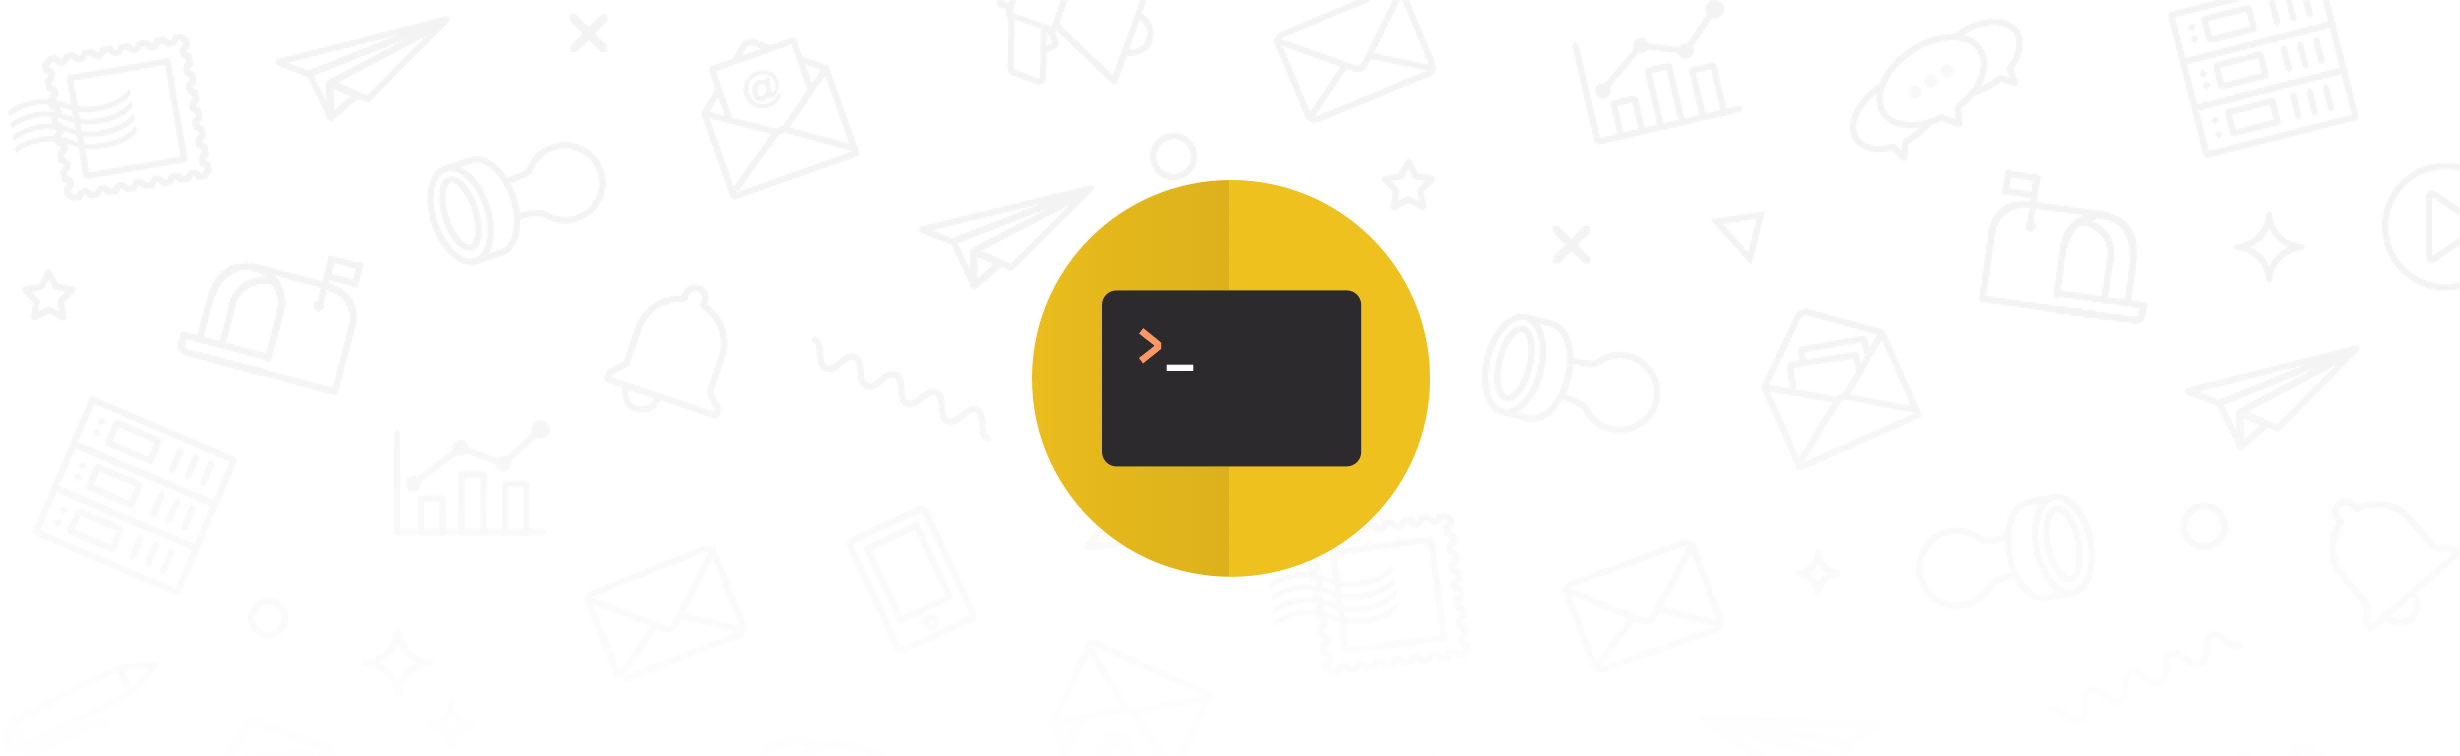
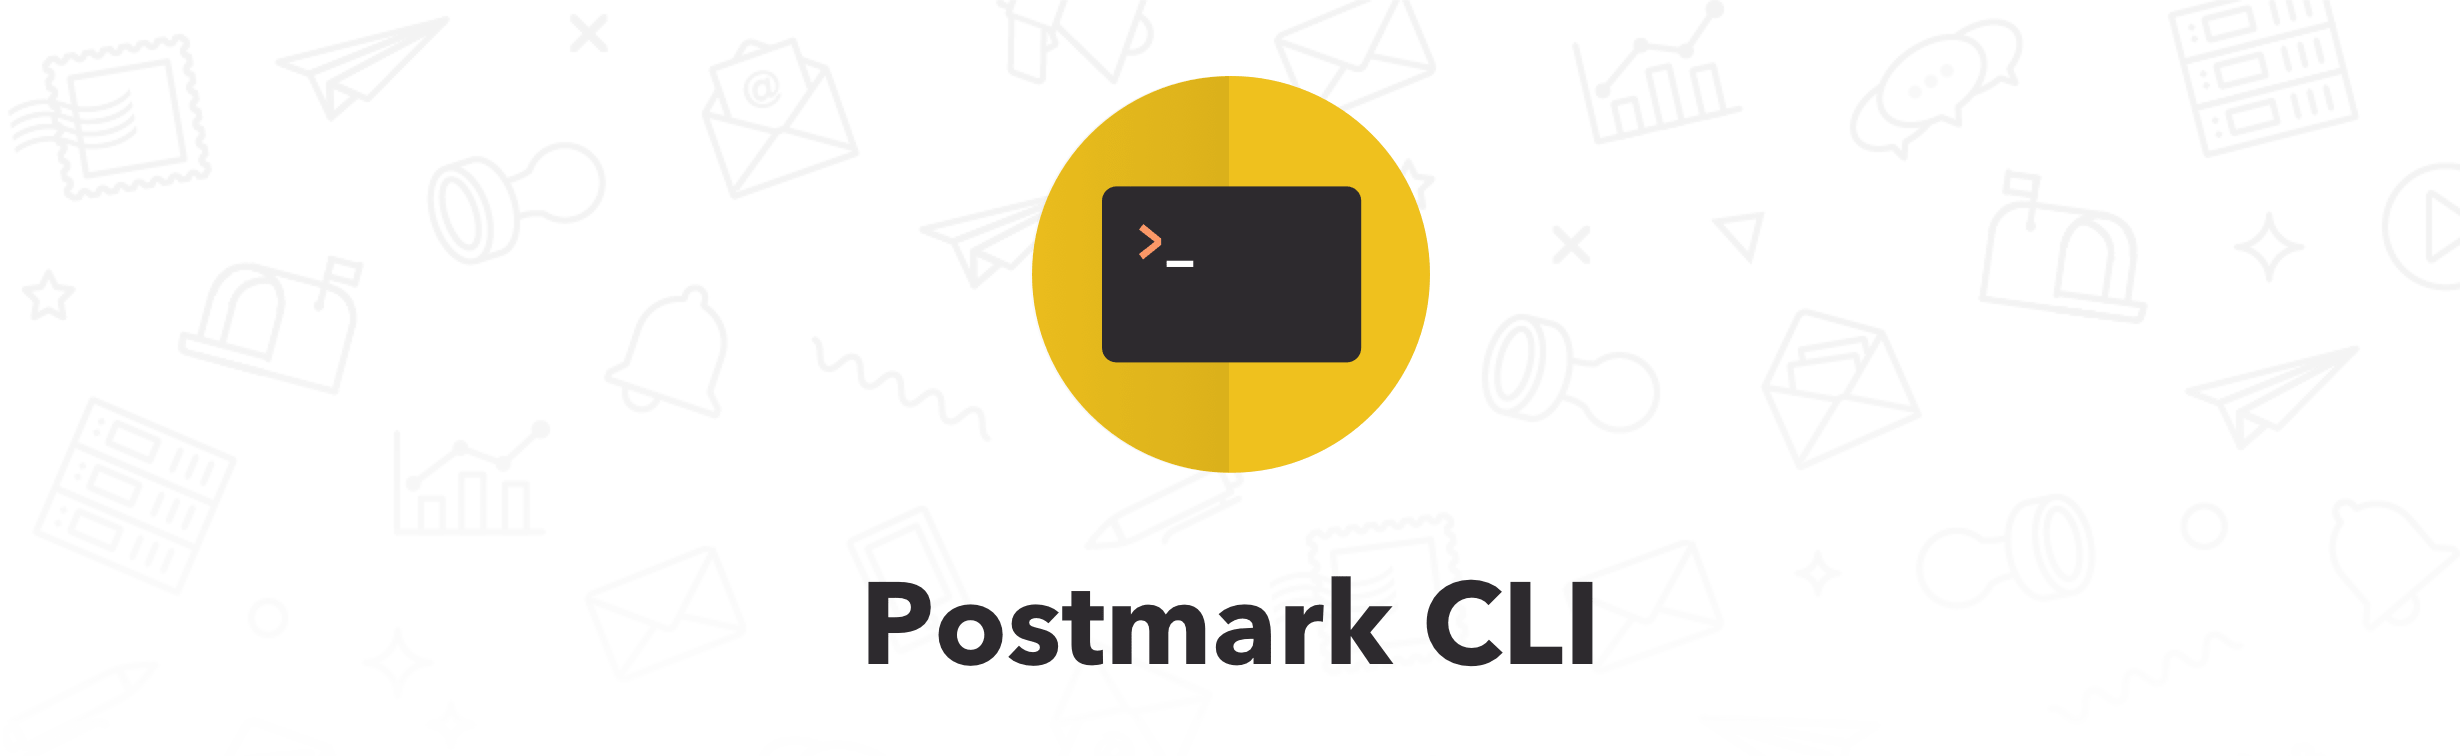
Update header image and readme

Changed region(s): [[0.3398, 0.4563, 0.6488, 0.8823], [0.4016, 0.0913, 0.587, 0.4259]]

diff --git a/readme.md b/readme.md
@@ -1,9 +1,7 @@
-<p align="center">
-  <img src="./media/header@2x.png" width="100%" style="max-width:1230px;margin-bottom:0;">
-</p>
-
-<h1 align="center" style="margin-top: 0;">Postmark CLI</h1>
-<p align="center">A CLI tool for managing templates, sending emails, and fetching servers on <a href="https://postmarkapp.com">Postmark</a>. Nifty for integrating with Postmark via a CI/CD pipeline.</p>
+<h1 align="center">
+  <img src="./media/header@2x.png" width="100%" style="max-width:1230px;" alt="Postmark CLI">
+</h1>
+<p align="center">A CLI tool for managing templates, sending emails, and fetching servers on <a href="https://postmarkapp.com">Postmark</a>. Nifty for integrating with a CI/CD pipeline.</p>
 
 <p align="center">
   <a href="https://circleci.com/gh/wildbit/postmark-cli"><img src="https://circleci.com/gh/wildbit/postmark-cli" alt="CircleCI"></a>
